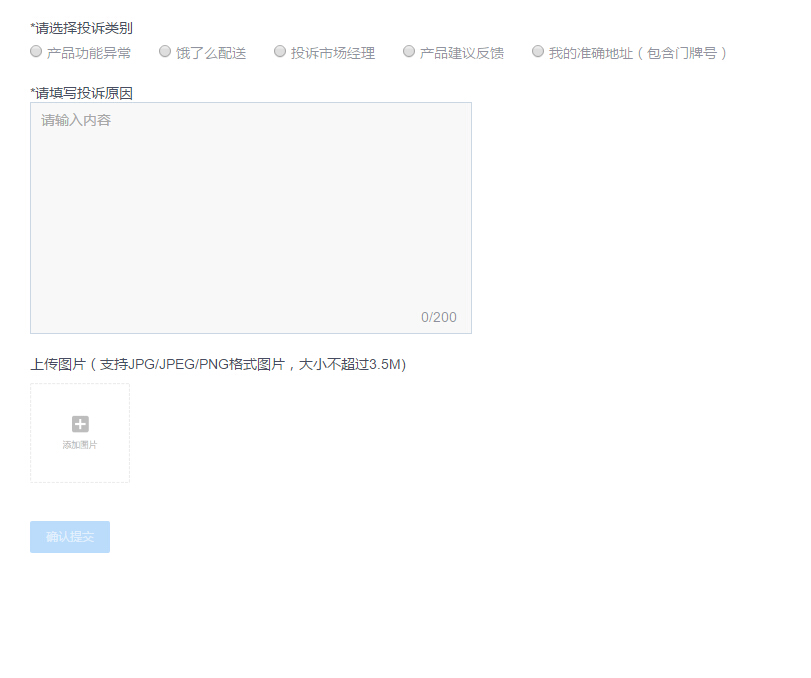
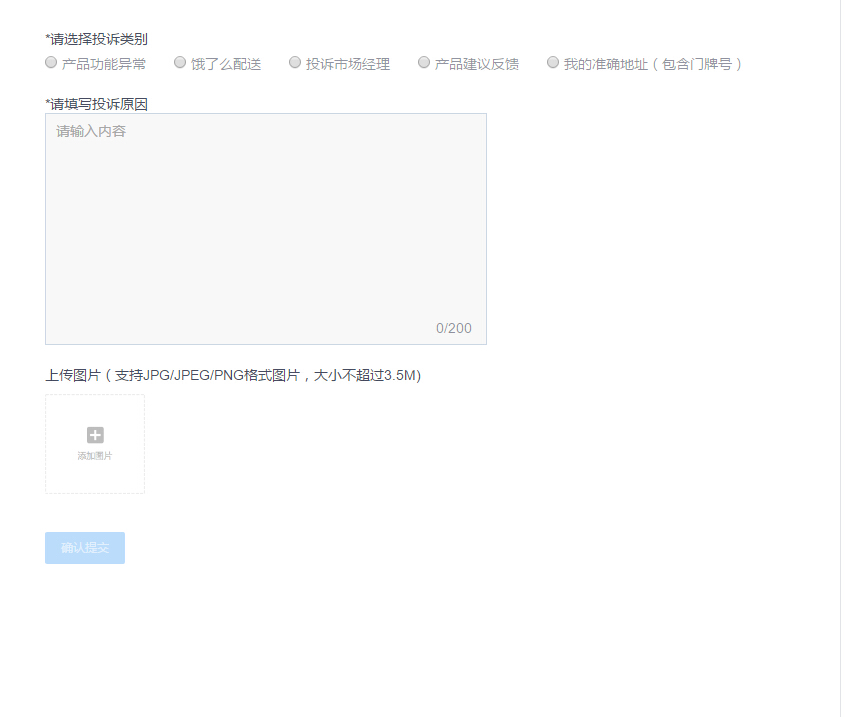
updata

diff --git a/Restaurant/src/view/help/Help.vue b/Restaurant/src/view/help/Help.vue
@@ -1,16 +1,34 @@
 <template>
     <div class="store">
+    	<el-tabs v-model="activeName" @tab-click="handleClick">
+		    <el-tab-pane label="全部消息(5)" name="first">
+            	<img src="../../assets/help/xx/1.jpg" alt="">
+		    </el-tab-pane>
+		    <el-tab-pane label="平台公告(3)" name="second">
+            	<img src="../../assets/help/xx/2.jpg" alt="">
+		    </el-tab-pane>
+		    <el-tab-pane label="我的消息(2)" name="third">
+            	<img src="../../assets/help/xx/3.jpg" alt="">
+		    </el-tab-pane>
+		</el-tabs>
         <div class="zongping">
-            <img src="../../assets/help/xx/1.jpg" alt="">
-            <img src="../../assets/help/xx/2.jpg" alt="">
-            <img src="../../assets/help/xx/3.jpg" alt="">
         </div>
     </div>
 </template>
 
 <script>
-    
-
+    export default {
+    data() {
+      return {
+        activeName: 'first'
+      };
+    },
+    methods: {
+      handleClick(tab, event) {
+        console.log(tab, event);
+      }
+    }
+  };
 </script>
 
 <style scoped lang="scss">

diff --git a/Restaurant/src/view/help/tousu.vue b/Restaurant/src/view/help/tousu.vue
@@ -1,11 +1,9 @@
 <template>
     <div class="store">
-        <div class="zongping">
-            <img src="../../assets/help/tsfk/1.jpg" alt="">
-        </div>
-        <div class="info">
-            <img src="../../assets/help/tsfk/2.jpg" alt="">
-        </div>
+    <img src="../../assets/help/tsfk/1.jpg" alt="">
+    <div class="img2">
+        <img src="../../assets/help/tsfk/2.jpg" alt="">
+    </div>
     </div>
 </template>
 
@@ -16,16 +14,11 @@
 
 <style scoped lang="scss">
 .store{
-    // width: 1000px;
-    // margin: 0 auto;
-    .zongping{
-      border-bottom: 20px solid #f1f2f7;
-    }
-    .data{
-    border-bottom: 20px solid #f1f2f7;
-    }
-    .info{
-        border-bottom: 20px solid #f1f2f7;
+    .img2{
+        position:absolute;
+        top: 20px;
+        right:0px;
+        border-left: 2px solid #f1f2f7;
     }
 }
 </style>
